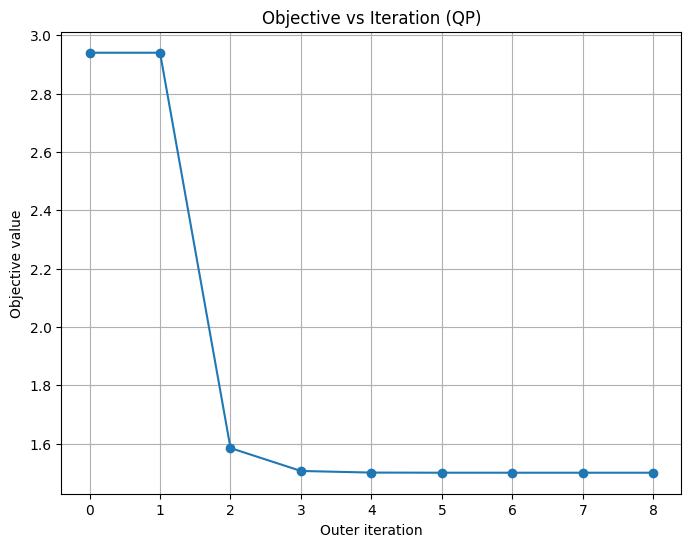
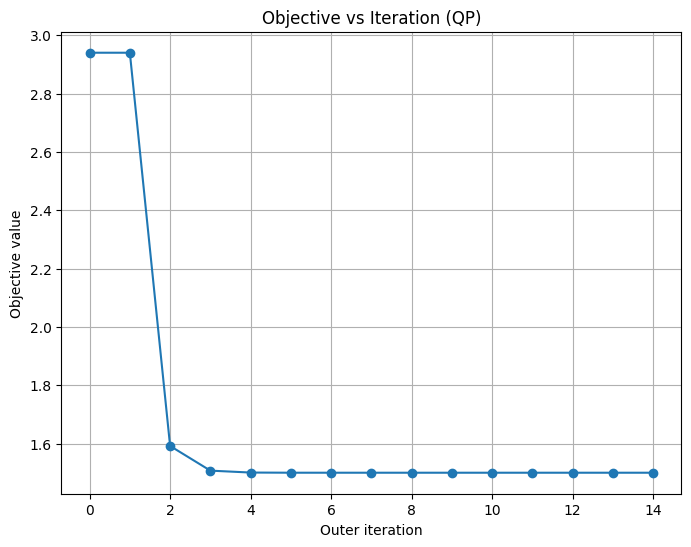
final version

diff --git a/src/utils.py b/src/utils.py
@@ -95,13 +95,29 @@ def plot_function_values(fvals_gd, fvals_nt, title="", filename=None, save=False
         plt.close()
 
 
-def plot_3d_central_path(path, title="Central Path", xlabel="x", ylabel="y", zlabel="z", filename=None, save=False, show=True):
-    """Plot 3D central path for constrained optimization."""
+def plot_3d_central_path(path, title="Central Path", xlabel="x", ylabel="y", zlabel="z", 
+                          ineq_constraints=None, eq_constraints_mat=None, eq_constraints_rhs=None,
+                          filename=None, save=False, show=True):
+    """Plot 3D central path for constrained optimization with feasible region."""
     path_np = np.array(path)
     
-    fig = plt.figure()
+    fig = plt.figure(figsize=(10, 8))
     ax = fig.add_subplot(111, projection='3d')
-    ax.plot(path_np[:, 0], path_np[:, 1], path_np[:, 2], marker='o', label="Central Path")
+    
+    # Plot constraint boundaries for 3D (QP case: x>=0, y>=0, z>=0, x+y+z=1)
+    if ineq_constraints is not None and eq_constraints_mat is not None:
+        # For the QP example: show the simplex x+y+z=1 with x,y,z>=0
+        # Create a triangle in the plane x+y+z=1
+        vertices = np.array([[1, 0, 0], [0, 1, 0], [0, 0, 1], [1, 0, 0]])  # Close the triangle
+        ax.plot(vertices[:, 0], vertices[:, 1], vertices[:, 2], 'k--', linewidth=2, alpha=0.7, label='Feasible Region Boundary')
+        
+        # Fill the feasible region (triangle)
+        from mpl_toolkits.mplot3d.art3d import Poly3DCollection
+        triangle = [[vertices[0], vertices[1], vertices[2]]]
+        ax.add_collection3d(Poly3DCollection(triangle, alpha=0.2, facecolor='lightblue', edgecolor='blue'))
+    
+    # Plot central path
+    ax.plot(path_np[:, 0], path_np[:, 1], path_np[:, 2], marker='o', label="Central Path", linewidth=2)
     
     # Mark start and end points clearly
     ax.scatter(path_np[0, 0], path_np[0, 1], path_np[0, 2], color='green', s=100, marker='o', label='Start')
@@ -121,12 +137,58 @@ def plot_3d_central_path(path, title="Central Path", xlabel="x", ylabel="y", zla
         plt.close()
 
 
-def plot_2d_central_path(path, title="Central Path", xlabel="x", ylabel="y", filename=None, save=False, show=True):
-    """Plot 2D central path for constrained optimization."""
+def plot_2d_central_path(path, title="Central Path", xlabel="x", ylabel="y", 
+                          ineq_constraints=None, filename=None, save=False, show=True):
+    """Plot 2D central path for constrained optimization with feasible region."""
     path_np = np.array(path)
     
-    plt.figure(figsize=(8, 6))
-    plt.plot(path_np[:, 0], path_np[:, 1], marker='o', label='Central Path')
+    plt.figure(figsize=(10, 8))
+    
+    # Plot feasible region for 2D case
+    if ineq_constraints is not None:
+        # Determine plot bounds from path and add margin
+        x_min = min(path_np[:, 0].min() - 0.5, -0.5)
+        x_max = max(path_np[:, 0].max() + 0.5, 3.0)
+        y_min = min(path_np[:, 1].min() - 0.5, -0.5)
+        y_max = max(path_np[:, 1].max() + 0.5, 2.0)
+        
+        # Create a grid to evaluate constraints
+        x_grid = np.linspace(x_min, x_max, 300)
+        y_grid = np.linspace(y_min, y_max, 300)
+        X, Y = np.meshgrid(x_grid, y_grid)
+        
+        # Evaluate all inequality constraints on the grid
+        feasible = np.ones_like(X, dtype=bool)
+        for constraint in ineq_constraints:
+            Z = np.zeros_like(X)
+            for i in range(X.shape[0]):
+                for j in range(X.shape[1]):
+                    point = np.array([X[i, j], Y[i, j]])
+                    Z[i, j] = constraint(point)[0]  # constraint(x) <= 0 for feasible points
+            feasible &= (Z <= 0)
+        
+        # Plot feasible region
+        plt.contourf(X, Y, feasible.astype(int), levels=[0.5, 1.5], colors=['lightblue'], alpha=0.3)
+        plt.contour(X, Y, feasible.astype(int), levels=[0.5], colors=['blue'], linewidths=2, linestyles='--')
+        
+        # Add constraint boundary lines with labels
+        colors = ['red', 'orange', 'purple', 'brown']
+        for i, constraint in enumerate(ineq_constraints):
+            Z = np.zeros_like(X)
+            for ii in range(X.shape[0]):
+                for jj in range(X.shape[1]):
+                    point = np.array([X[ii, jj], Y[ii, jj]])
+                    Z[ii, jj] = constraint(point)[0]
+            plt.contour(X, Y, Z, levels=[0], colors=[colors[i % len(colors)]], linewidths=1, alpha=0.7)
+        
+        plt.xlim(x_min, x_max)
+        plt.ylim(y_min, y_max)
+        
+        # Add feasible region to legend
+        plt.fill_between([], [], alpha=0.3, color='lightblue', label='Feasible Region')
+    
+    # Plot central path
+    plt.plot(path_np[:, 0], path_np[:, 1], marker='o', label='Central Path', linewidth=2, markersize=4)
     
     # Mark start and end points clearly
     plt.plot(path_np[0, 0], path_np[0, 1], 'go', markersize=10, label='Start')
@@ -136,7 +198,7 @@ def plot_2d_central_path(path, title="Central Path", xlabel="x", ylabel="y", fil
     plt.xlabel(xlabel)
     plt.ylabel(ylabel)
     plt.legend()
-    plt.grid(True)
+    plt.grid(True, alpha=0.3)
     
     if filename and save:
         plt.savefig(filename, bbox_inches='tight')

diff --git a/tests/test_constrained_min.py b/tests/test_constrained_min.py
@@ -12,14 +12,16 @@ class TestConstrainedMin(unittest.TestCase):
         func, ineqs, A, b, x0 = get_qp_example()
         sol, path, obj_vals = interior_pt(func, ineqs, A, b, x0)
 
-        # Plot 3D central path
-        plot_3d_central_path(path, title="QP Central Path", xlabel="x", ylabel="y", zlabel="z", save=True, show=False,filename="qp_central_path.png")
+        # Plot 3D central path with feasible region
+        plot_3d_central_path(path, title="QP Central Path", xlabel="x", ylabel="y", zlabel="z", 
+                           ineq_constraints=ineqs, eq_constraints_mat=A, eq_constraints_rhs=b,
+                           save=True, filename="qp_central_path.png")
         
         # Plot objective values
         plot_objective_values(obj_vals, title="Objective vs Iteration (QP)", save=True,filename="qp_obj_vals.png" )
 
         print("QP solution:", sol)
-        print("Objective:", func(sol)[0])
+        print("Objective:", obj_vals[-1])
         print("Equality constraint (Ax = b):", A @ sol - b)
         for i, c in enumerate(ineqs):
             print(f"Ineq {i}:", c(sol)[0])
@@ -28,14 +30,15 @@ class TestConstrainedMin(unittest.TestCase):
         func, ineqs, A, b, x0 = get_lp_example()
         sol, path, obj_vals = interior_pt(func, ineqs, A, b, x0)
 
-        # Plot 2D central path
-        plot_2d_central_path(path, title="LP Central Path", xlabel="x", ylabel="y", save=True,filename="lp_central_path.png")
+        # Plot 2D central path with feasible region
+        plot_2d_central_path(path, title="LP Central Path", xlabel="x", ylabel="y", 
+                           ineq_constraints=ineqs, save=True, filename="lp_central_path.png")
         
         # Plot objective values
         plot_objective_values(obj_vals, title="Objective vs Iteration (LP)", save=True,filename="lp_obj_vals.png")
 
         print("LP solution:", sol)
-        print("Objective:", func(sol)[0])
+        print("Objective:", obj_vals[-1])
         for i, c in enumerate(ineqs):
             print(f"Ineq {i}:", c(sol)[0])
 

diff --git a/src/constrained_min.py b/src/constrained_min.py
@@ -2,7 +2,7 @@ import numpy as np
 
 
 def interior_pt(func, ineq_constraints, eq_constraints_mat,
-                 eq_constraints_rhs, x0, t0=1.0, mu=10.0, tol=1e-6, max_iter=20):
+                 eq_constraints_rhs, x0, t0=1.0, mu=10.0, tol=1e-12, max_iter=100):
     x = x0.copy()
     t = t0
     m = len(ineq_constraints)
@@ -10,9 +10,9 @@ def interior_pt(func, ineq_constraints, eq_constraints_mat,
     obj_vals = [func(x)[0]]
 
     for _ in range(max_iter):
-        for _ in range(50):  # Newton iterations
+        for _ in range(100):  # Newton iterations
             delta_x = newton_step(func, ineq_constraints, eq_constraints_mat, eq_constraints_rhs, x, t)
-            if np.linalg.norm(delta_x) < 1e-8:
+            if np.linalg.norm(delta_x) < 1e-12:
                 break
             step_size = backtracking(x, delta_x, func, ineq_constraints, t)
             x += step_size * delta_x
@@ -68,7 +68,7 @@ def newton_step(func, ineq_constraints, eq_constraints_mat, eq_constraints_rhs, 
     return delta_x
 
 
-def backtracking(x, dx, func, ineq_constraints, t, alpha=0.01, beta=0.5):
+def backtracking(x, dx, func, ineq_constraints, t, alpha=0.1, beta=0.5):
     s = 1.0
     while True:
         x_new = x + s * dx
